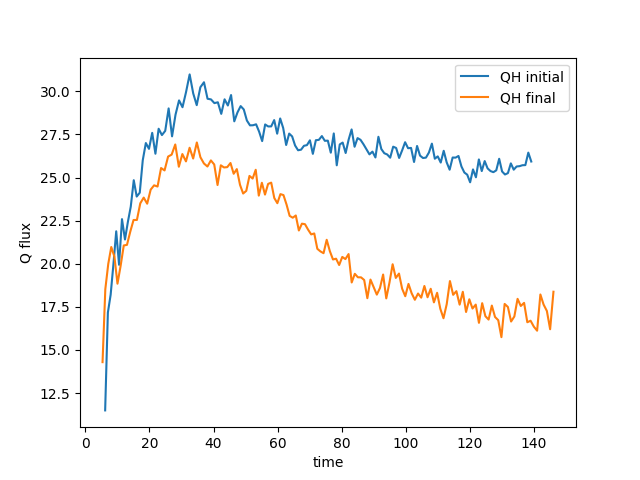
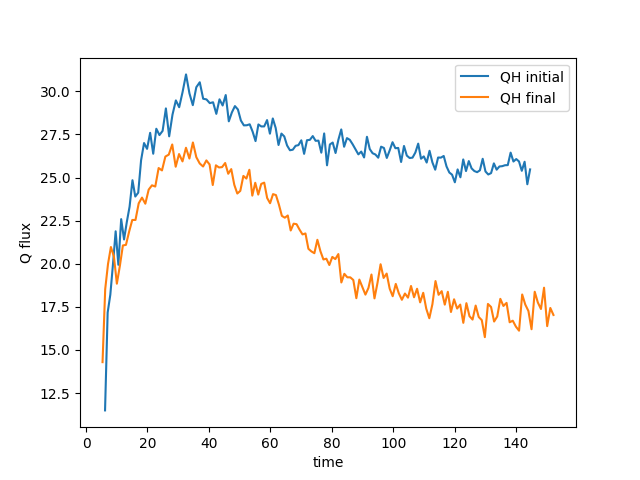
same

diff --git a/GX_SIMSOPT/plot_nonlinear.py b/GX_SIMSOPT/plot_nonlinear.py
@@ -6,9 +6,10 @@ from pathlib import Path
 import matplotlib.pyplot as plt
 this_path = Path(__file__).parent.resolve()
 
-file_labels = ['QH initial','QH final','QA initial','QA final']
-folders = ['nonlinear_nfp4_QH_initial_LN1.0_LT3.0','nonlinear_nfp4_QH_final_LN1.0_LT3.0'
-          ,'nonlinear_nfp2_QA_initial_LN1.0_LT3.0','nonlinear_nfp2_QA_final_LN1.0_LT3.0']
+file_labels = (['QH initial','QH final'])
+              #['QA initial','QA final'])
+folders = (['nonlinear_nfp4_QH_initial_LN1.0_LT3.0','nonlinear_nfp4_QH_final_LN1.0_LT3.0'])
+          #['nonlinear_nfp2_QA_initial_LN1.0_LT3.0','nonlinear_nfp2_QA_final_LN1.0_LT3.0'])
 
 file_suffix = 'nzgrid125_npol4_nstep200000_dt0.2_ln1.0_lt3.0_nhermite16_nlaguerre8_nu_hyper0.5_D_hyper0.05_ny80_nx140_y012.0.nc'
 
